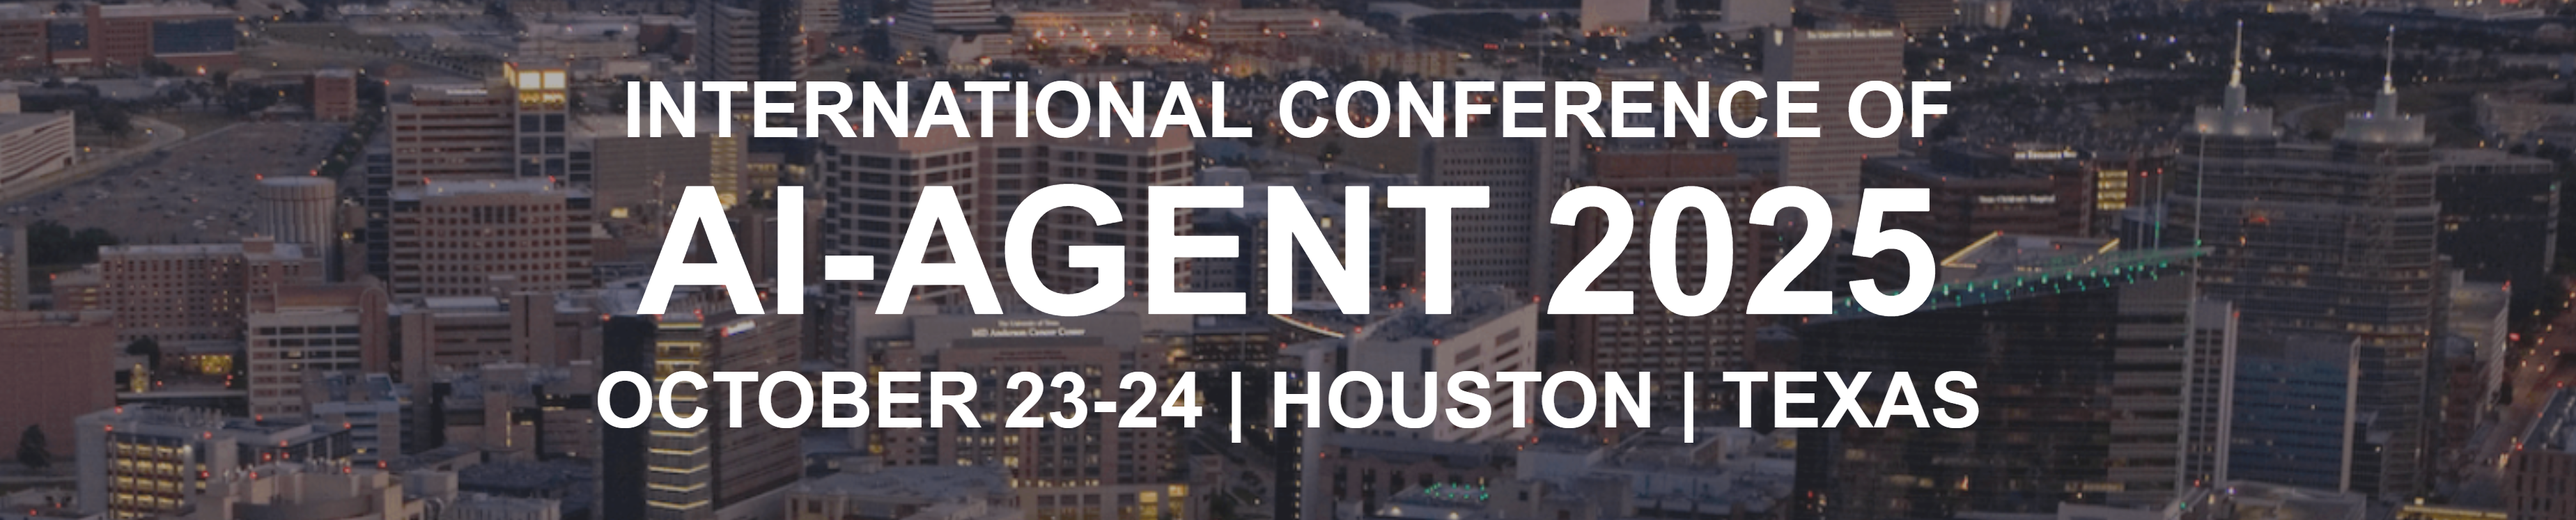
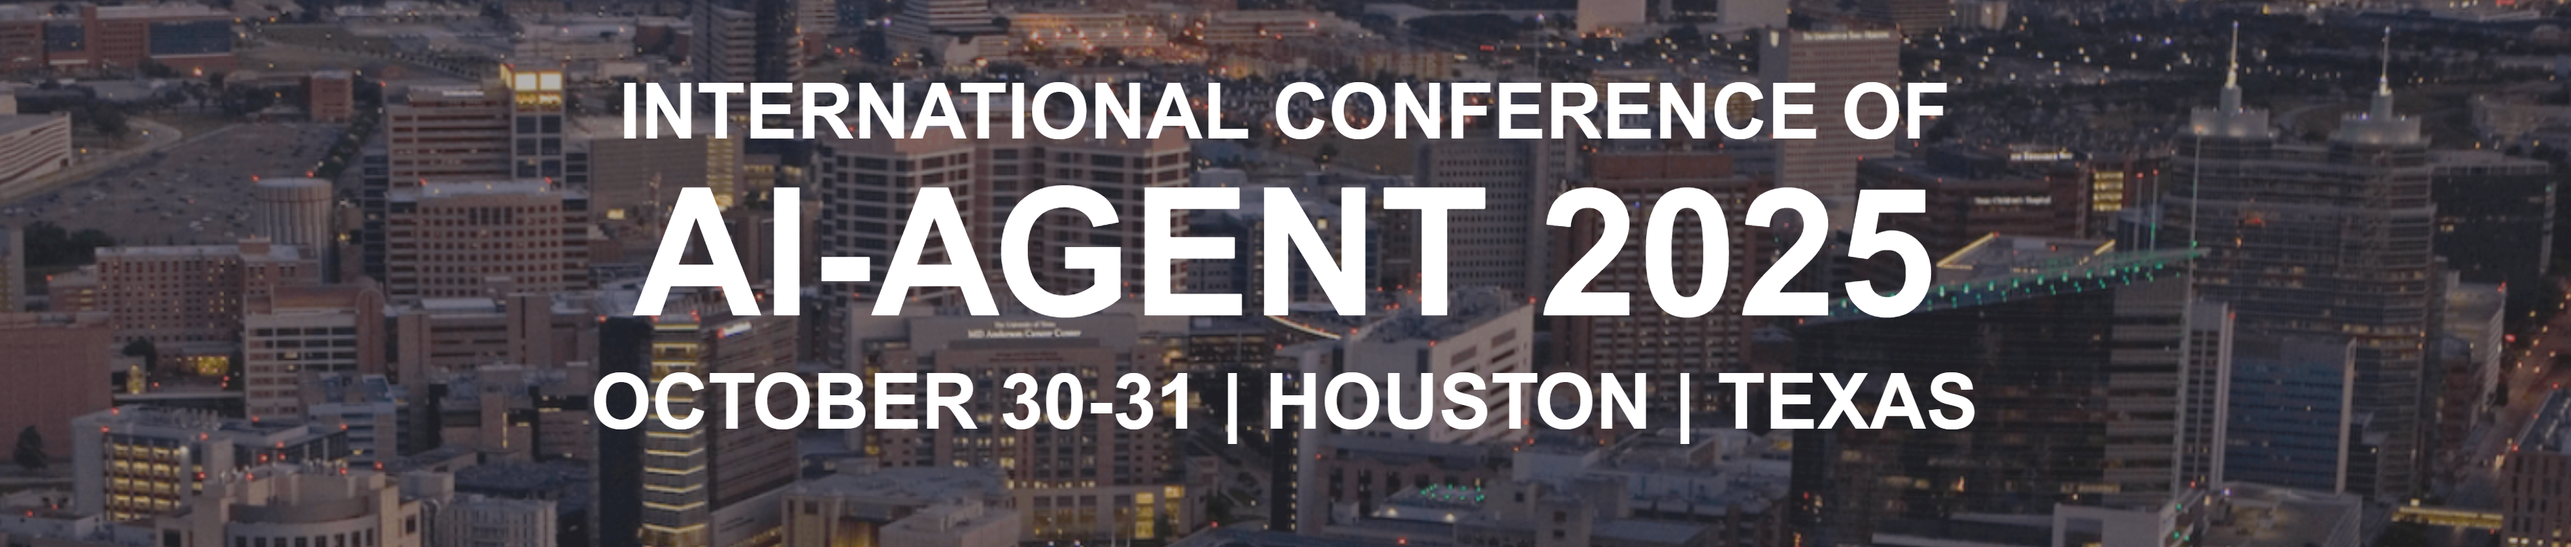
webpage update

diff --git a/index.html b/index.html
@@ -173,7 +173,7 @@
                     AI-AGENT 2025 conference
                 </td>
                 <td style="padding:8px 12px;">
-                    October 23-24, 2025
+                    October 30-31, 2025
                 </td>
             </tr>
         </table>    
